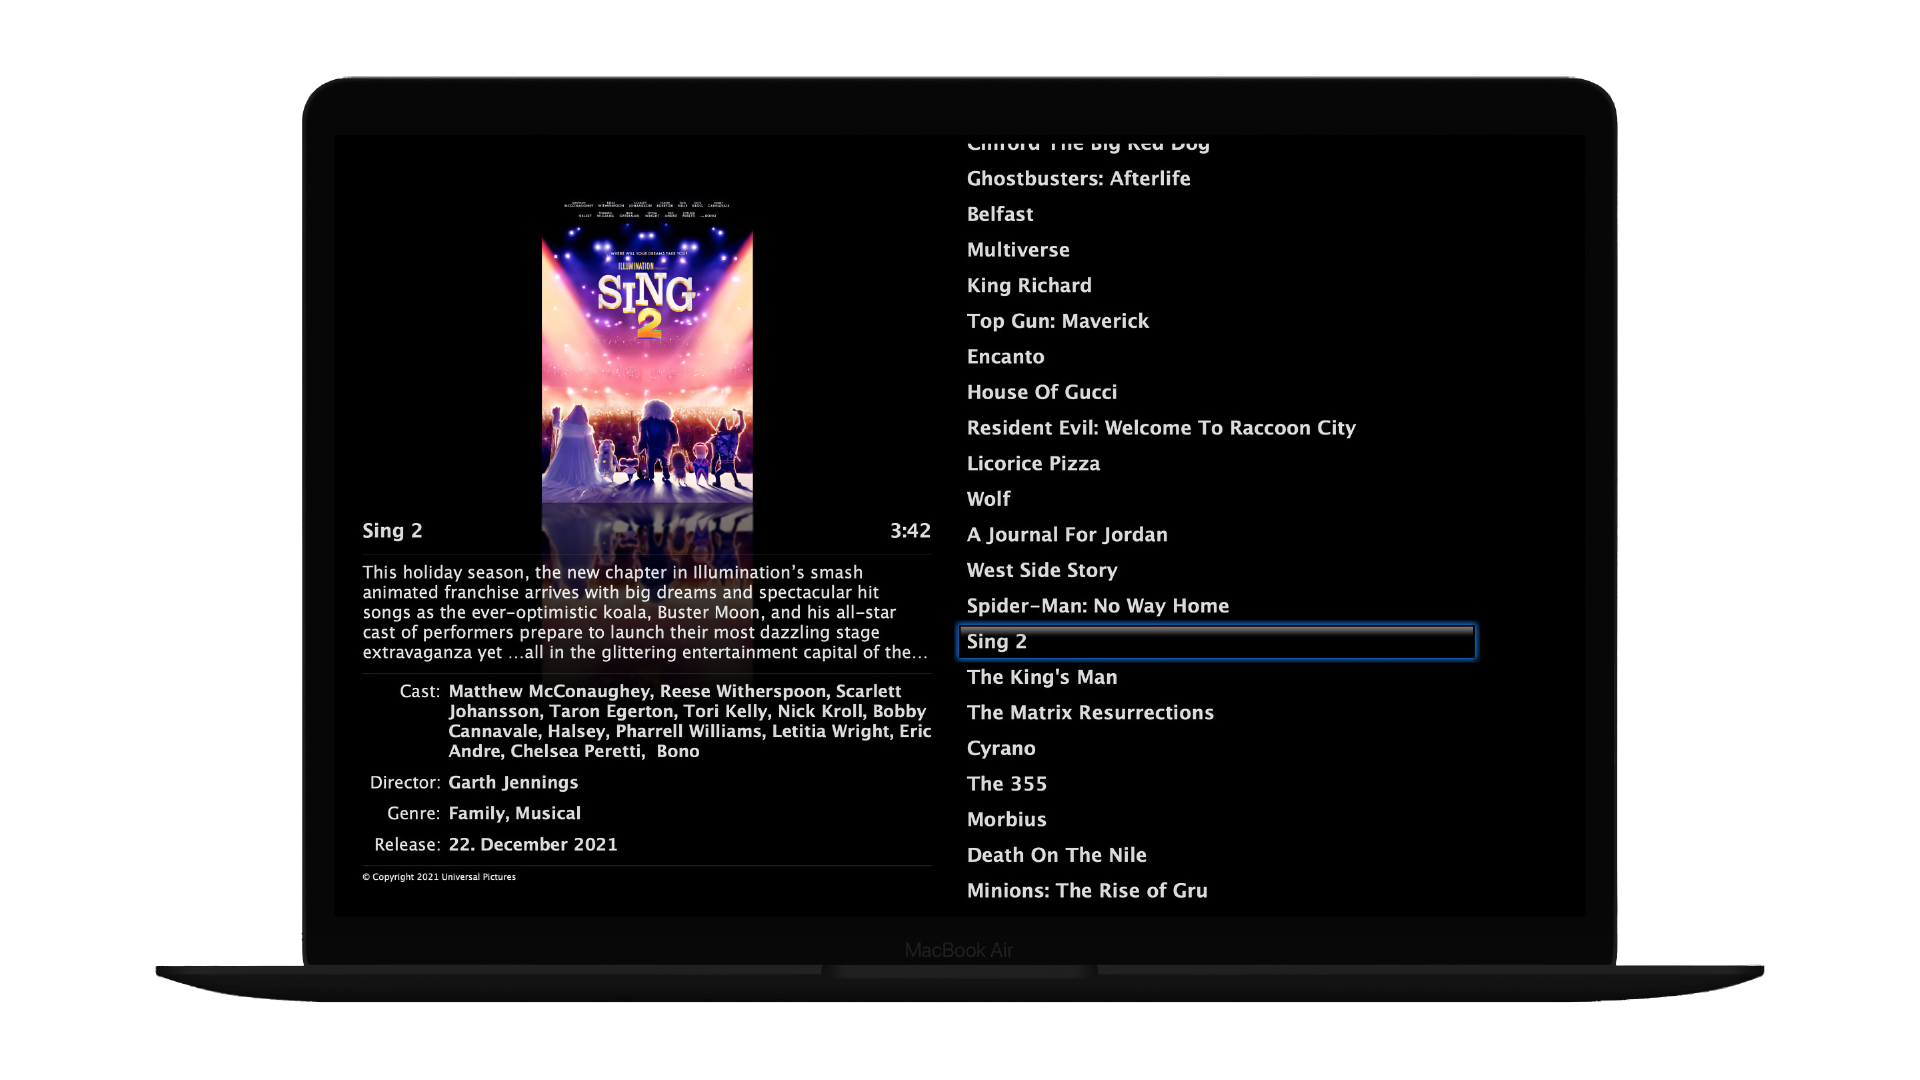
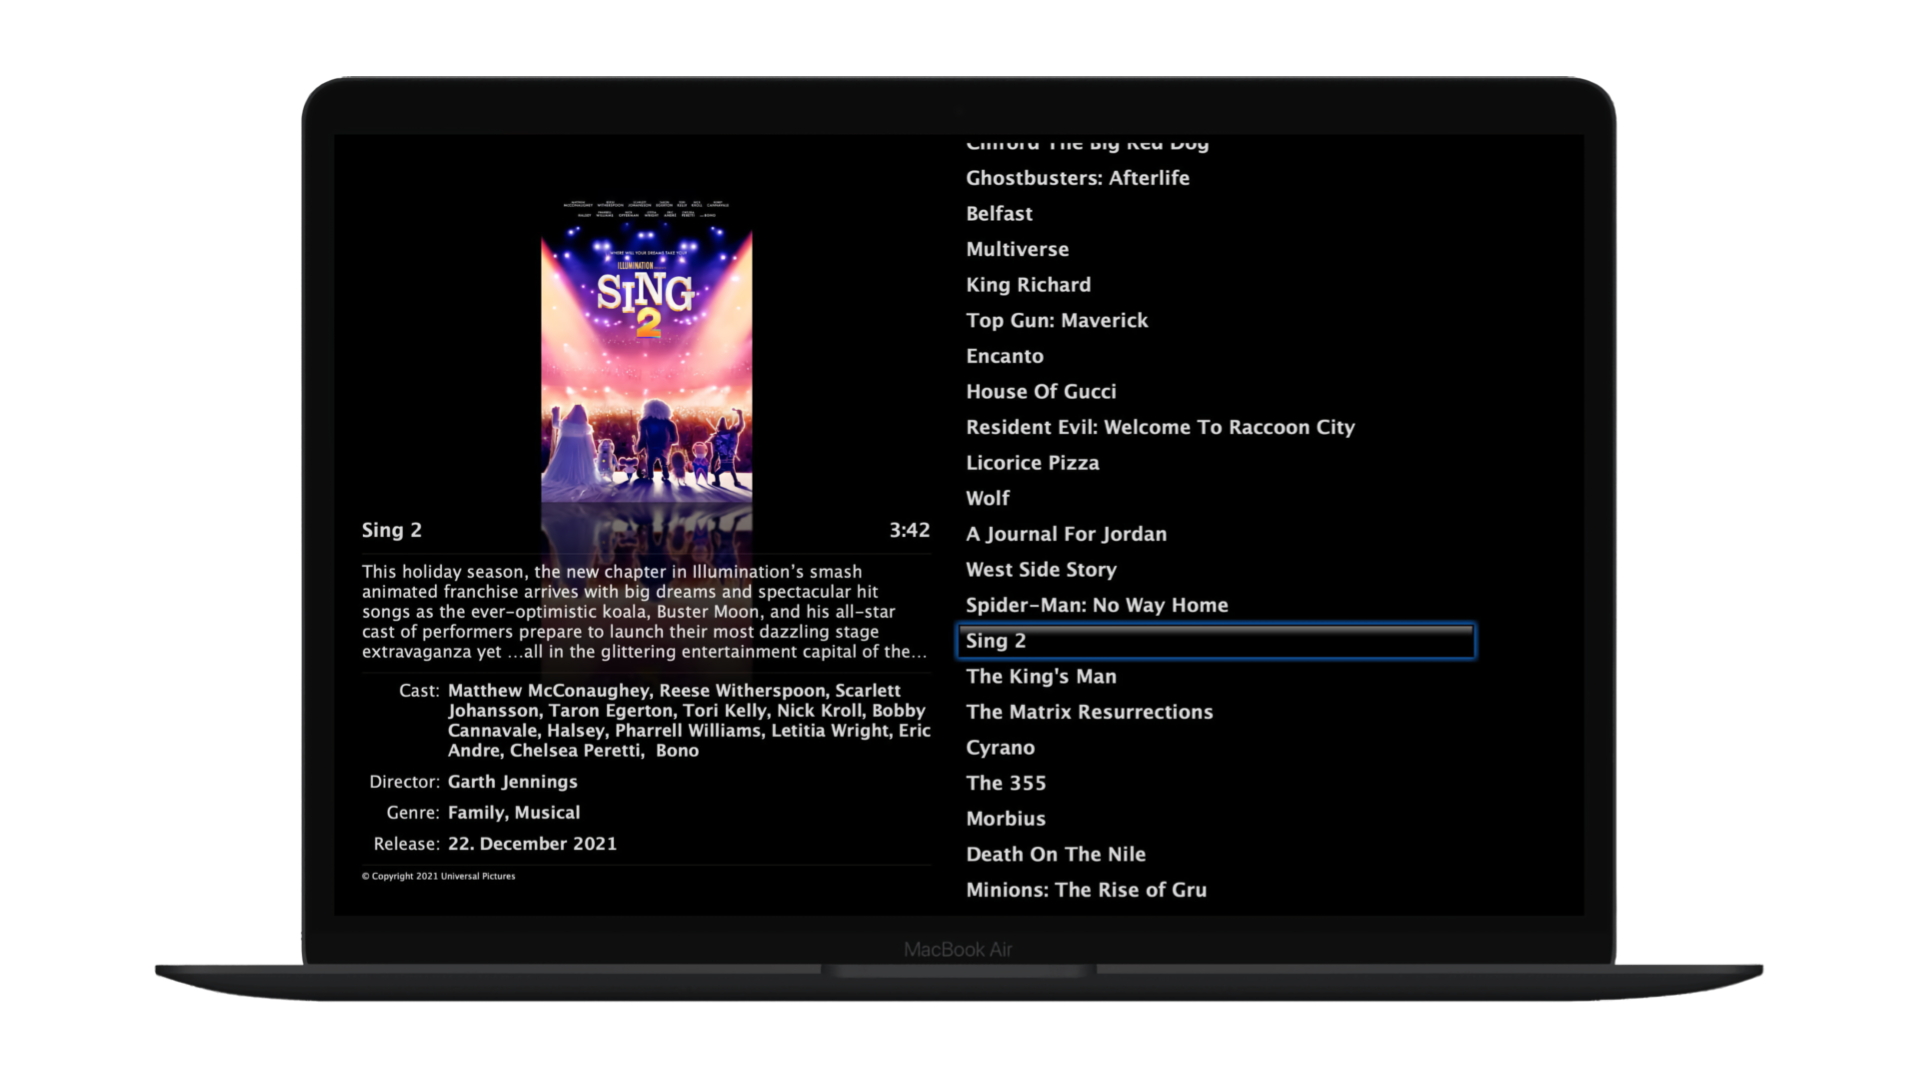
Update website with minor changes
Update Mac app screenshot with brighter frame
Remove divider line from the header
Move Mac pitch line down

diff --git a/docs/_layouts/index.html b/docs/_layouts/index.html
@@ -47,26 +47,27 @@
                             </h2>
                             {% endif %}
                         </div>
-                        <div class="appDescriptionContainer">
-                            {% if site.mac_lead %}
-                            <h2 class="appDescription">
-                                {{ site.mac_lead }}
-                            </h2>
-                            {% endif %}
-                        </div>
                     </div>
                     {% if site.mac_screenshot_url %}
                     <div class="macospitch">
-                        {% if site.mac_heading %}
-                        <h2 class="appName">
-                            {{ site.mac_heading }}
+                        {% if site.mac_lead %}
+                        <h2 class="appDescription">
+                            {{ site.mac_lead }}
                         </h2>
+                        <br/>
+                        {% endif %}
+                        {% if site.mac_heading %}
+                        <p class="appDescription">
+                            {{ site.mac_heading }}
+                        </p>
                         {% endif %}
                         {% if site.show_mac_app_store %}
                         <a class="macAppStoreLink" href="{{site.mac_app_store_link}}"><img class="appStore" src="assets/badge_mac_app_store.svg" alt="Download on the Mac App Store"></a>
                         {% endif %}
                         <br/>
-                        <img src="{{site.mac_screenshot_url}}" width="90%" alt="{{site.mac_screenshot_alt}}">
+                        <div class="macosscreenshot">
+                        	<img src="{{site.mac_screenshot_url}}" width="90%" alt="{{site.mac_screenshot_alt}}">
+                    	</div>
                     </div>
                     {% endif %}
                     {% include features.html %}

diff --git a/docs/_sass/layout.scss b/docs/_sass/layout.scss
@@ -21,7 +21,7 @@
 
 .macospitch {
   align-items: center;
-  margin-top: 0px;
+  margin-top: 20px;
   grid-area: c;
   display: flex;
   flex: 0 1 auto;
@@ -29,6 +29,11 @@
   justify-content: flex-start;
   flex-grow: 1;
   flex-wrap: wrap;
+}
+
+.macosscreenshot {
+  display: flex;
+  justify-content: center;
 }
 
 .clearfix::after {
@@ -345,6 +350,7 @@ nav > ul li a:active {
 
 .appDescription {
 	color: $app-description-color;
+	margin-bottom: 10px;
 }
 
 @media only screen and (max-width: 992px) {

diff --git a/docs/_includes/header.html b/docs/_includes/header.html
@@ -13,7 +13,6 @@
 			{% else %}
 				<img class="headerIcon" src="{{ site.app_icon | relative_url }}">
 			{% endif %}
-			<div class="divider"></div>
 		</div>
 		<p class="headerName">{{ site.app_name }}</p>
 	</div>
